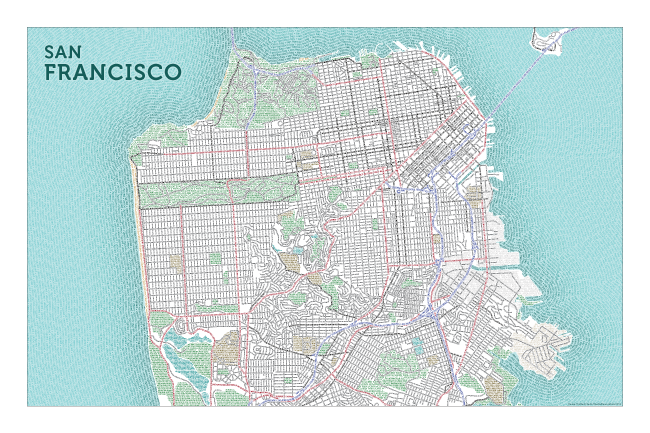
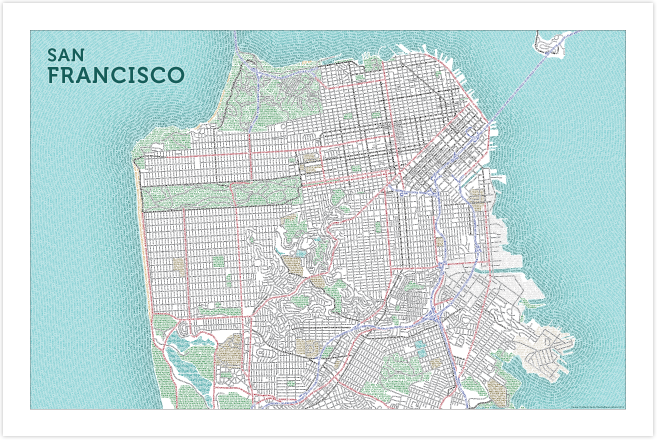
Pretty close to final

diff --git a/_posts/2016-05-13-san-fran-typographic-map-v3.md b/_posts/2016-05-13-san-fran-typographic-map-v3.md
@@ -3,7 +3,7 @@ layout: post
 nav: Blog
 status: publish
 published: true
-title: Finally, the San Francisco Typographic Map is Back!
+title: San Francisco Typographic Map, v3.0!
 author:
   display_name: Ben Sheesley
   login: ben
@@ -19,27 +19,27 @@ tags:
 comments: []
 project: typographic
 ---
+[![San Francisco Poster]({{ site.baseurl }}/media/posts/2016/05/full_poster.png)](http://store.axismaps.com/product/typographic-map-san-francisco)
 
-The San Francisco poster sold out over the holidays and we’ve been eager to reprint what is perhaps our most popular typographic map. Of course, we couldn’t resist making a few changes to refresh and update the design before doing so. Here’s a quick rundown of what’s new in this, the 3rd, version of the map:
+Ever since the San Francisco map sold out over the holidays we’ve been eager to get it reprinted and back up for sale. Of course, before doing so, we couldn’t resist making a few changes to refresh and update the design. The new version, pictured above, is the third in six years. Read down the page for a quick rundown of what’s new, or skip it and go straight to the [typographic maps store](http://store.axismaps.com) where you can check out the [map of San Francisco](http://store.axismaps.com/product/typographic-map-san-francisco) and our collection of other typographic cities.
 
-[![San Francisco Poster]({{ site.baseurl }}/media/posts/2016/05/full_poster.jpg)](http://store.axismaps.com/product/typographic-map-san-francisco)
 
-### Water areas filled with a solid color
-The San Francisco Peninsula divides the San Francisco Bay from the Pacific Ocean, with the city sitting on its northern tip. To enhance the distinction between land and water and further accentuate the city and its recognizable coastline, we filled major water areas with a solid color. Text in the bay and ocean now recedes into the background while text on the peninsula rises to the foreground:
+### Blue Water
+To further accentuate the peninsula, city, and coastline, the San Francisco Bay and Pacific Ocean were filled with a solid blue background color. Blue text in these areas now recedes into the background while the peninsula and city rise to the foreground.
 
-{Fig}
+![Blue Water]({{ site.baseurl }}/media/posts/2016/05/water.png)
 
-### Parks and Institutions
-Text in some of the larger more recognizable parks in San Francisco, such as Golden Gate and the Presidio, was darkened to help it stand out better. These areas are important landmarks, and by increasing the contrast between them and their surroundings map readers are more quickly able to get oriented.
+### Stronger Parks
+Large parks, such as Golden Gate and Presidio, that had once been light green, were darkened so they would stand out better against the page background. These areas are important landmarks and by increasing the contrast, readers are more quickly able to get oriented.
 
-{Fig}
+![Parks]({{ site.baseurl }}/media/posts/2016/05/parks.png)
 
 ### Beaches
-Ocean, China, Baker, Marshall, and East beaches have been added to the west and north sides of the peninsula. Because beaches tend appear as narrow strips they can be easily missed among all of the other text on the map. To counter this, we gave them a unique text style so they would stand out better. They are shown using an italic font (Museo 500 italic) and beachy-looking color, with text oriented to follow the contours of the coastline.
+Ocean, China, Baker, Marshall, and East beaches were added to the west and north sides of the peninsula. So as not to get lost among all the other text, they are shown in a unique font (Museo 500 italic) and color (beach-brown). The text is oriented to flow with the contours of the coastline.
 
-{Fig}
+![Beaches]({{ site.baseurl }}/media/posts/2016/05/beach.png)
 
-### Title
-The redesigned title is simpler and to the point! This isn’t exactly a neighborhood map, at least not in the way of some other well-known typographic maps, nor in the way of some of our own past typographic mapping efforts (e.g., Chicago and Madison), which have shown neighborhood names and boundaries as a background layer. So, gone is the unsightly, long list of San Francisco neighborhood names that once hovered over the Pacific Ocean in favor of a cleaner space reserved for the city name alone.
+### Simplified Title
+This isn’t really a neighborhood map, at least not in the way of some of our past efforts, where we’ve shown neighborhood names as a background layer (e.g., [Chicago](http://store.axismaps.com/product/typographic-map-chicago-color) and [Madison](http://store.axismaps.com/product/madison)). So, gone is the long list of San Francisco neighborhoods that once hovered over the Pacific Ocean in favor of a cleaner space reserved for the city name alone.
 
-{Fig}	
+We hope you enjoy the new [typographic map of San Francisco](http://store.axismaps.com/product/typographic-map-san-francisco) as much as we do!
